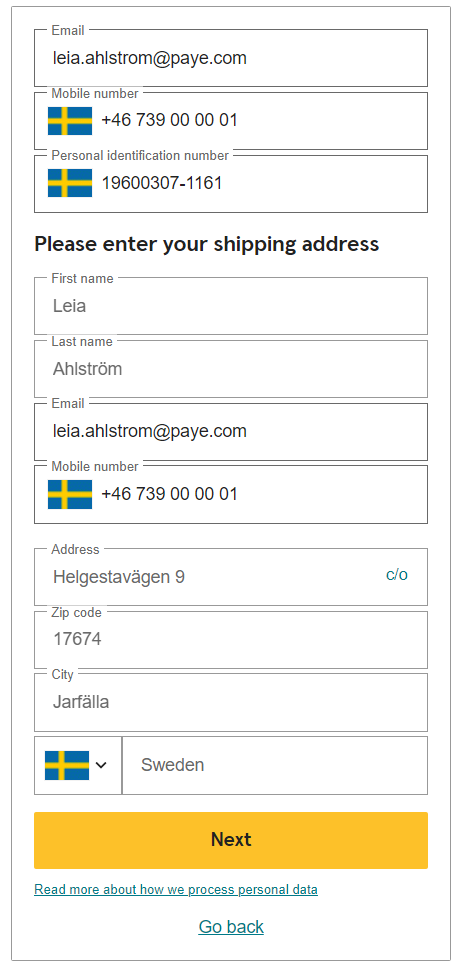
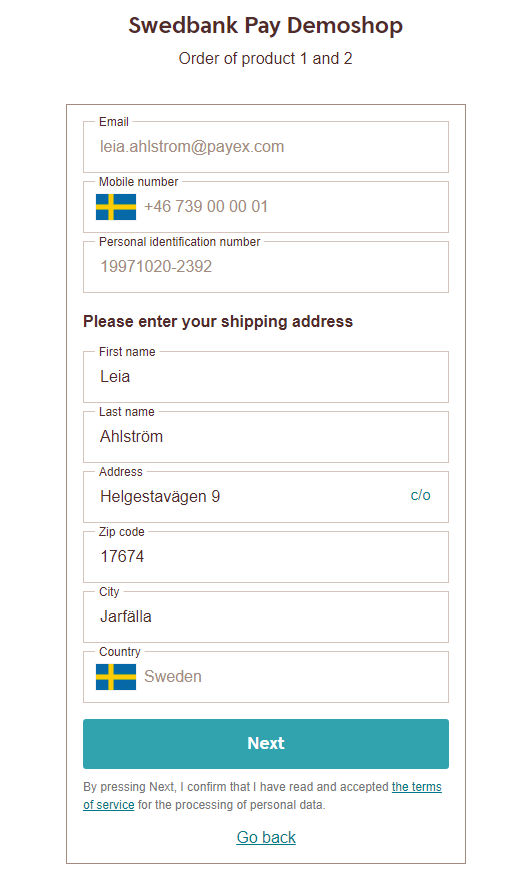
DX-1973: Revert "Merge pull request #1599 from SwedbankPay/feature/dx-1935_new_screenshots_v3"
This reverts commit 2288f6930e59d0cc8303a7a1ffadebda77d8f5af, reversing
changes made to 20b55c022d52ec91b8da182dc6df47b29a4ff6d2.

Changed region(s): [[0.0613, 0.0, 0.9497, 0.973], [0.9803, 0.0, 1.0, 0.973], [0.0613, 0.6689, 0.0919, 0.6993]]

diff --git a/checkout-v3/starter/seamless-view.md b/checkout-v3/starter/seamless-view.md
@@ -229,16 +229,16 @@ the top right corner.
 
 You can now perform the `GET` on the payment order and display the available
 delivery option(s) to the payer. How the delivery options are displayed is up to
-you, so they are not included in this screenshot.
+you. This is how they appear in our demoshop.
 
 {:.text-center}
-![screenshot of the seamless view checkin mixed products][checkin-remember-me-mixed]
+![screenshot of the seamless view checkin mixed and delivery options][checkin-delivery-options-mixed]
 
 For digital products, only contact details will be shown. "Remember me" will
 work the same way as with mixed goods.
 
 {:.text-center}
-![screenshot of the seamless view checkin digital products][checkin-remember-me-digital]
+![screenshot of the seamless view checkin digital and delivery options][checkin-delivery-options-digital]
 
 When the payer chooses a delivery option, you can `PATCH` the payment order and
 open the payment menu. The payer can then proceed with the purchase.
@@ -272,8 +272,8 @@ Events][seamless-view-events] available in the feature section.
                          next_title="Post Purchase" %}
 
 [abort-feature]: /checkout-v3/starter/features/core/abort
-[checkin-remember-me-digital]:/assets/img/checkout/checkin-remember-me-digital.png
-[checkin-remember-me-mixed]:/assets/img/checkout/checkin-remember-me-mixed.png
+[checkin-delivery-options-digital]:/assets/img/checkout/checkin-delivery-options-remember-me-digital.png
+[checkin-delivery-options-mixed]:/assets/img/checkout/checkin-delivery-options-remember-me-mixed.png
 [login-checkin]: /assets/img/checkout/checkin.png
 [seamless-view-events]: /checkout-v3/starter/features/technical-reference/seamless-view-events
 [seamless-payment-menu-starter]: /assets/img/checkout/checkout-v3-seamless-menu.png

diff --git a/checkout-v3/payments-only/seamless-view.md b/checkout-v3/payments-only/seamless-view.md
@@ -146,7 +146,7 @@ The payment menu should appear with the payer information displayed above the
 menu. The payer can select their preferred payment instrument and pay.
 
 {:.text-center}
-![screenshot of the enterprise implementation seamless view payment menu][payments-only-seamless-menu]
+![screenshot of the enterprise implementation seamless view payment menu][seamless-enterprise-menu]
 
 Once the payer has completed the purchase, you can perform a GET towards the
 `paymentOrders` resource to see the purchase state.
@@ -172,4 +172,4 @@ capture and the other options you have after the purchase.
 [abort-feature]: /checkout-v3/payments-only/features/core/abort
 [seamless-view-events]: /checkout-v3/payments-only/features/technical-reference/seamless-view-events
 [sequence-diagram]: /checkout-v3/sequence-diagrams#payments-only-seamless-view
-[payments-only-seamless-menu]: /assets/img/checkout/checkout-v3-seamless-menu.png
+[seamless-enterprise-menu]: /assets/img/checkout/checkout-v3-seamless-menu.png
